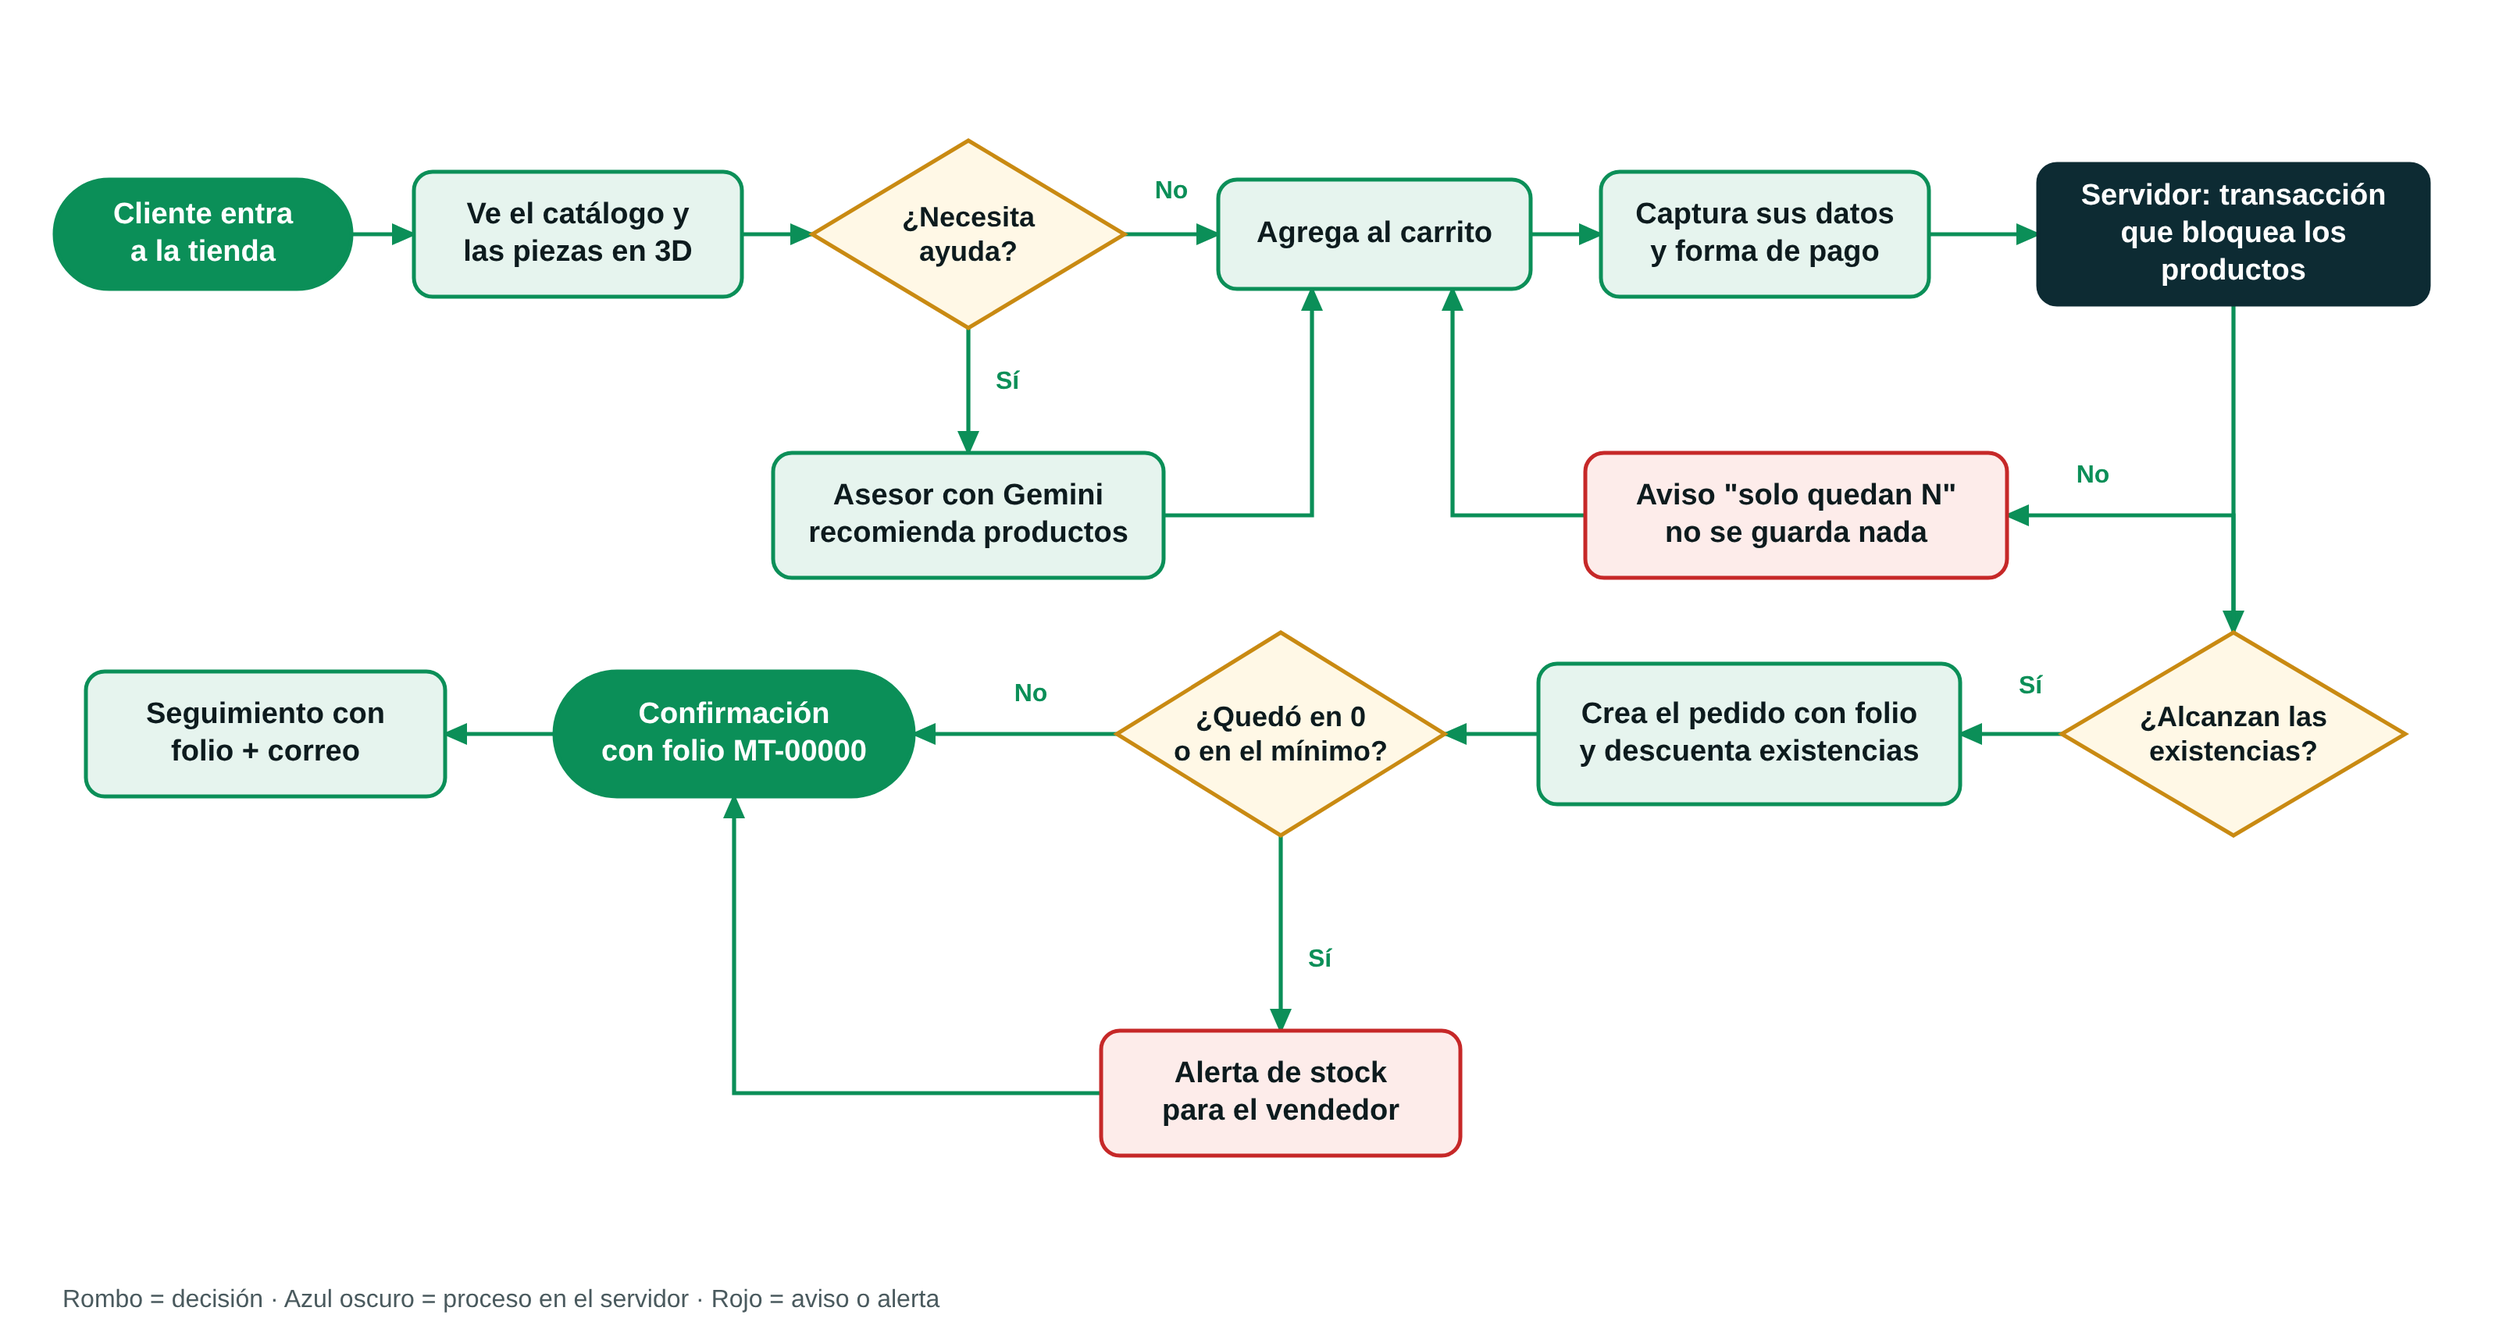
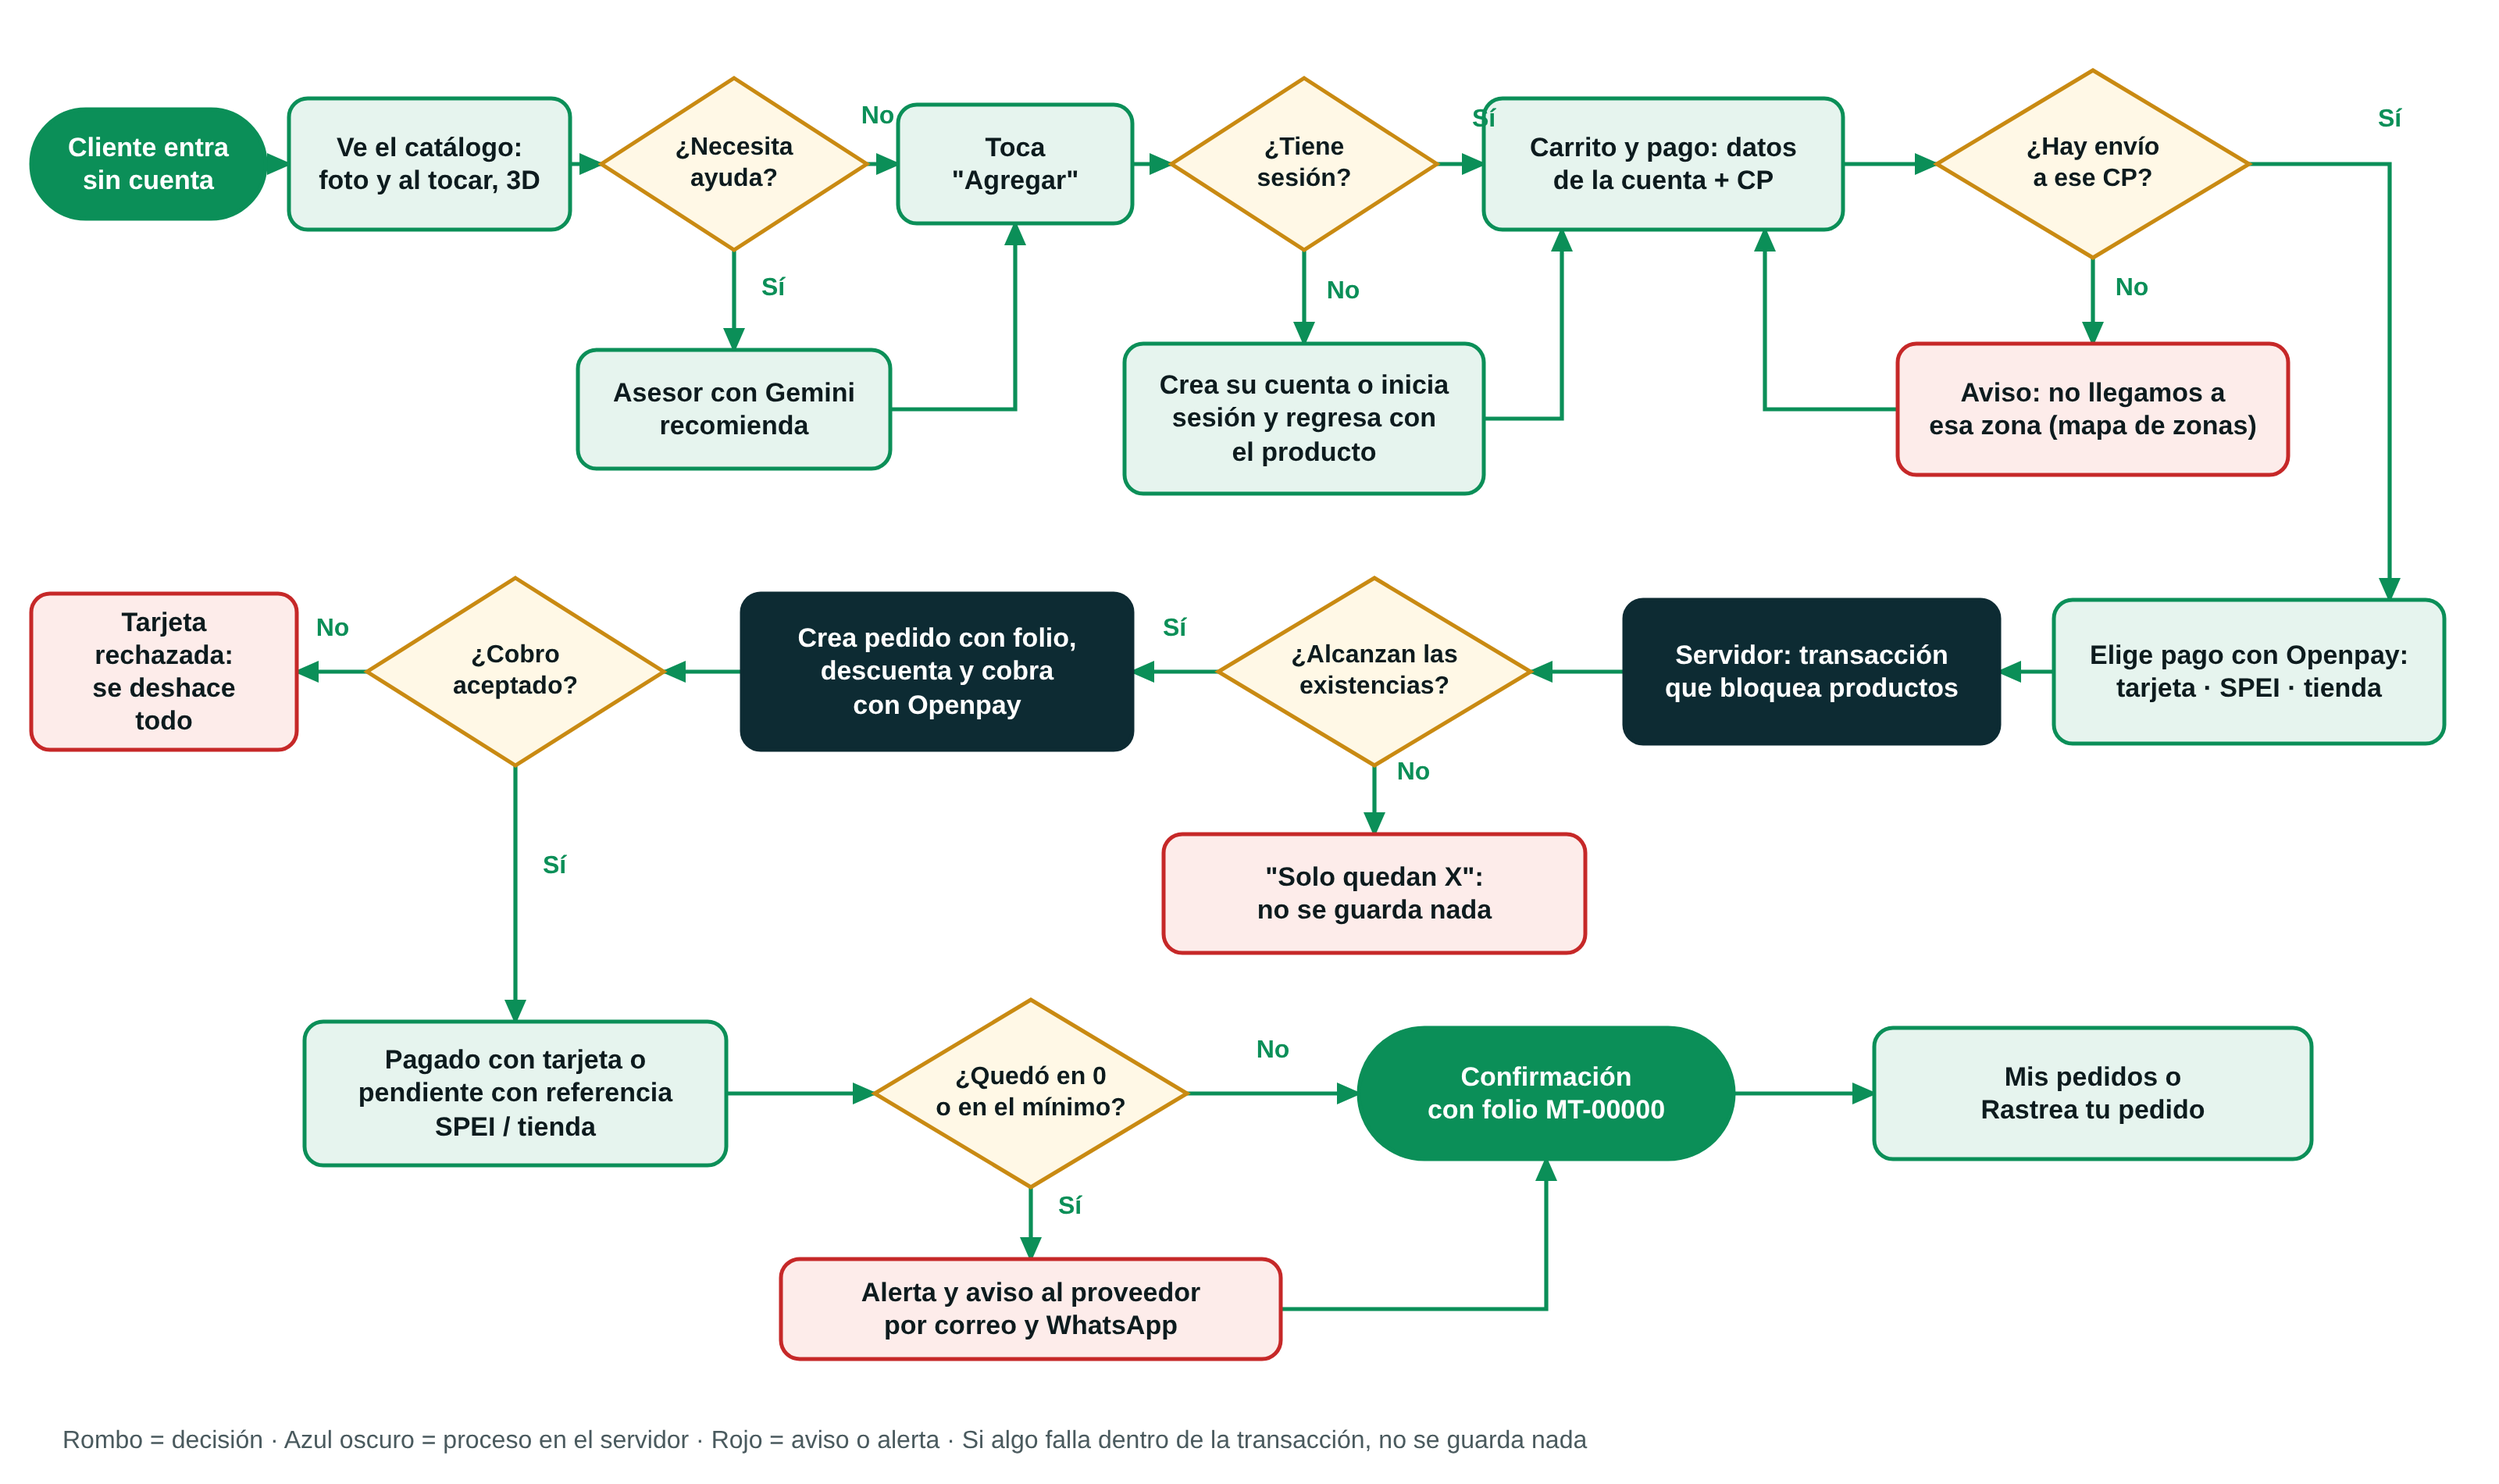
Flujo de compra actualizado: cuenta al agregar, cobertura por CP, Openpay y avisos al proveedor
Claude-Session: https://claude.ai/code/session_017Wtdo31W4yuUWbdFhaJGPV

diff --git a/docs/diagramas/fuente/flujos.py b/docs/diagramas/fuente/flujos.py
@@ -19,11 +19,11 @@ def svg_nodo(n):
     return f'<rect x="{x-w/2}" y="{y-h/2}" width="{w}" height="{h}" rx="{rx}" fill="{fill}" stroke="{st}" stroke-width="2.5"/>'
 def html_texto(n):
     color={'inicio':'#fff','srv':'#fff'}.get(n['forma'],TINTA)
-    fs=19 if n['forma']!='rombo' else 18
+    fs=n.get('fs') or (19 if n['forma']!='rombo' else 18)
     return (f'<div style="position:absolute;left:{n["x"]-n["w"]/2}px;top:{n["y"]-n["h"]/2}px;width:{n["w"]}px;height:{n["h"]}px;'
             f'display:flex;align-items:center;justify-content:center;text-align:center;padding:0 {14 if n["forma"]!="rombo" else 34}px;box-sizing:border-box;'
             f'font:600 {fs}px/1.25 Arial,sans-serif;color:{color}">{n["texto"]}</div>')
-def generar(nombre, titulo, nodos, aristas, leyenda=''):
+def generar(nombre, titulo, nodos, aristas, leyenda='', H=H):
     s=[f'<svg width="{W}" height="{H}" style="position:absolute;left:0;top:0"><defs><marker id="f" markerUnits="userSpaceOnUse" markerWidth="16" markerHeight="16" refX="14" refY="8" orient="auto"><path d="M0,1 L16,8 L0,15 z" fill="{VERDE}"/></marker></defs>']
     etiquetas=[]
     for a in aristas:
@@ -33,7 +33,7 @@ def generar(nombre, titulo, nodos, aristas, leyenda=''):
         s.append(f'<path d="{d}" fill="none" stroke="{VERDE}" stroke-width="2.6" marker-end="url(#f)"/>')
         if a.get('txt'):
             ex,ey=a.get('en',((pts[0][0]+pts[1][0])/2,(pts[0][1]+pts[1][1])/2))
-            etiquetas.append(f'<div style="position:absolute;left:{ex-55}px;top:{ey-14}px;width:110px;text-align:center;font:700 16px Arial;color:{VERDE}">{a["txt"]}</div>')
+            etiquetas.append(f'<div style="position:absolute;left:{ex-100}px;top:{ey-14}px;width:200px;text-align:center;font:700 16px Arial;color:{VERDE}">{a["txt"]}</div>')
     for n in nodos.values(): s.append(svg_nodo(n))
     s.append('</svg>')
     cuerpo=''.join(s)+''.join(html_texto(n) for n in nodos.values())+''.join(etiquetas)
@@ -43,36 +43,55 @@ def generar(nombre, titulo, nodos, aristas, leyenda=''):
 
 N=nodo
 compra={
- 'A':N(130,150,190,70,'inicio','Cliente entra<br>a la tienda'),
- 'B':N(370,150,210,80,'proc','Ve el catálogo y<br>las piezas en 3D'),
- 'C':N(620,150,200,120,'rombo','¿Necesita<br>ayuda?'),
- 'D':N(620,330,250,80,'proc','Asesor con Gemini<br>recomienda productos'),
- 'E':N(880,150,200,70,'proc','Agrega al carrito'),
- 'F':N(1130,150,210,80,'proc','Captura sus datos<br>y forma de pago'),
- 'G':N(1430,150,250,90,'srv','Servidor: transacción<br>que bloquea los productos'),
- 'H':N(1430,470,220,130,'rombo','¿Alcanzan las<br>existencias?'),
- 'I':N(1150,330,270,80,'alerta','Aviso "solo quedan N"<br>no se guarda nada'),
- 'J':N(1120,470,270,90,'proc','Crea el pedido con folio<br>y descuenta existencias'),
- 'K':N(820,470,210,130,'rombo','¿Quedó en 0<br>o en el mínimo?'),
- 'L':N(820,700,230,80,'alerta','Alerta de stock<br>para el vendedor'),
- 'M':N(470,470,230,80,'inicio','Confirmación<br>con folio MT-00000'),
- 'N':N(170,470,230,80,'proc','Seguimiento con<br>folio + correo'),
+ 'A':N(95,105,150,70,'inicio','Cliente entra<br>sin cuenta'),
+ 'B':N(275,105,180,84,'proc','Ve el catálogo:<br>foto y al tocar, 3D'),
+ 'C':N(470,105,170,110,'rombo','¿Necesita<br>ayuda?'),
+ 'D':N(470,262,200,76,'proc','Asesor con Gemini<br>recomienda'),
+ 'E':N(650,105,150,76,'proc','Toca<br>"Agregar"'),
+ 'F':N(835,105,170,110,'rombo','¿Tiene<br>sesión?'),
+ 'G':N(835,268,230,96,'proc','Crea su cuenta o inicia<br>sesión y regresa con<br>el producto'),
+ 'H':N(1065,105,230,84,'proc','Carrito y pago: datos<br>de la cuenta + CP'),
+ 'J':N(1340,105,200,120,'rombo','¿Hay envío<br>a ese CP?'),
+ 'K':N(1340,262,250,84,'alerta','Aviso: no llegamos a<br>esa zona (mapa de zonas)'),
+ 'L':N(1440,430,250,92,'proc','Elige pago con Openpay:<br>tarjeta · SPEI · tienda'),
+ 'M':N(1160,430,240,92,'srv','Servidor: transacción<br>que bloquea productos'),
+ 'O2':N(880,430,200,120,'rombo','¿Alcanzan las<br>existencias?'),
+ 'V':N(880,572,270,76,'alerta','"Solo quedan X":<br>no se guarda nada'),
+ 'O':N(600,430,250,100,'srv','Crea pedido con folio,<br>descuenta y cobra<br>con Openpay'),
+ 'P':N(330,430,190,120,'rombo','¿Cobro<br>aceptado?'),
+ 'W':N(105,430,170,100,'alerta','Tarjeta rechazada:<br>se deshace<br>todo'),
+ 'Q':N(330,700,270,92,'proc','Pagado con tarjeta o<br>pendiente con referencia<br>SPEI / tienda'),
+ 'R':N(660,700,200,120,'rombo','¿Quedó en 0<br>o en el mínimo?'),
+ 'S':N(660,838,320,64,'alerta','Alerta y aviso al proveedor<br>por correo y WhatsApp'),
+ 'T':N(990,700,240,84,'inicio','Confirmación<br>con folio MT-00000'),
+ 'U':N(1340,700,280,84,'proc','Mis pedidos o<br>Rastrea tu pedido'),
 }
+for n in compra.values(): n['fs']=17 if n['forma']!='rombo' else 16
 ac=[
  dict(de='A',a='B'),dict(de='B',a='C'),
- dict(de='C',a='E',txt='No',en=(750,128)),
- dict(de='C',a='D',sale='b',entra='t',txt='Sí',en=(645,250)),
- dict(de='D',a='E',sale='r',entra=(840,185),por=[(840,330)]),
- dict(de='E',a='F'),dict(de='F',a='G'),
- dict(de='G',a='H',sale='b',entra='t'),
- dict(de='H',a='I',sale='t',entra='r',por=[(1430,330)],txt='No',en=(1340,310)),
- dict(de='I',a='E',sale='l',entra=(930,185),por=[(930,330)]),
- dict(de='H',a='J',sale='l',entra='r',txt='Sí',en=(1300,445)),
- dict(de='J',a='K',sale='l',entra='r'),
- dict(de='K',a='L',sale='b',entra='t',txt='Sí',en=(845,620)),
- dict(de='K',a='M',sale='l',entra='r',txt='No',en=(660,450)),
- dict(de='L',a='M',sale='l',entra='b',por=[(470,700)]),
- dict(de='M',a='N',sale='l',entra='r'),
+ dict(de='C',a='E',txt='No',en=(562,80)),
+ dict(de='C',a='D',sale='b',entra='t',txt='Sí',en=(495,190)),
+ dict(de='D',a='E',sale='r',entra='b',por=[(650,262)]),
+ dict(de='E',a='F'),
+ dict(de='F',a='H',txt='Sí',en=(950,82)),
+ dict(de='F',a='G',sale='b',entra='t',txt='No',en=(860,192)),
+ dict(de='G',a='H',sale='r',entra=(1000,147),por=[(1000,268)]),
+ dict(de='H',a='J'),
+ dict(de='J',a='K',sale='b',entra='t',txt='No',en=(1365,190)),
+ dict(de='K',a='H',sale='l',entra=(1130,147),por=[(1130,262)]),
+ dict(de='J',a='L',sale='r',entra=(1530,384),por=[(1530,105)],txt='Sí',en=(1530,82)),
+ dict(de='L',a='M',sale='l',entra='r'),
+ dict(de='M',a='O2',sale='l',entra='r'),
+ dict(de='O2',a='V',sale='b',entra='t',txt='No',en=(905,500)),
+ dict(de='O2',a='O',sale='l',entra='r',txt='Sí',en=(752,408)),
+ dict(de='O',a='P',sale='l',entra='r'),
+ dict(de='P',a='W',sale='l',entra='r',txt='No',en=(213,408)),
+ dict(de='P',a='Q',sale='b',entra='t',txt='Sí',en=(355,560)),
+ dict(de='Q',a='R',sale='r',entra='l'),
+ dict(de='R',a='S',sale='b',entra='t',txt='Sí',en=(685,778)),
+ dict(de='R',a='T',sale='r',entra='l',txt='No',en=(815,678)),
+ dict(de='S',a='T',sale='r',entra='b',por=[(990,838)]),
+ dict(de='T',a='U',sale='r',entra='l'),
 ]
 panel={
  'A':N(140,170,200,80,'inicio','Personal entra<br>al panel'),
@@ -105,9 +124,9 @@ ap=[
 async def main():
     async with async_playwright() as p:
         b=await p.chromium.launch(); pg=await b.new_page(viewport={'width':W,'height':H}, device_scale_factor=2)
-        for nombre,titulo,n,a,ley in [('flujo-compra','',compra,ac,'Rombo = decisión · Azul oscuro = proceso en el servidor · Rojo = aviso o alerta'),
-                                       ('flujo-panel','',panel,ap,'Administrador: todo el panel · Vendedor: pedidos y existencias')]:
-            await pg.set_content(generar(nombre,titulo,n,a,ley)); await pg.wait_for_timeout(200)
+        for nombre,titulo,n,a,ley,alto in [('flujo-compra','',compra,ac,'Rombo = decisión · Azul oscuro = proceso en el servidor · Rojo = aviso o alerta · Si algo falla dentro de la transacción, no se guarda nada',950),
+                                       ('flujo-panel','',panel,ap,'Administrador: todo el panel · Vendedor: pedidos y existencias',860)]:
+            await pg.set_viewport_size({'width':W,'height':alto}); await pg.set_content(generar(nombre,titulo,n,a,ley,alto)); await pg.wait_for_timeout(200)
             await pg.locator('#lienzo').screenshot(path=f'{nombre}.png'); print('ok',nombre)
         await b.close()
 asyncio.run(main())
